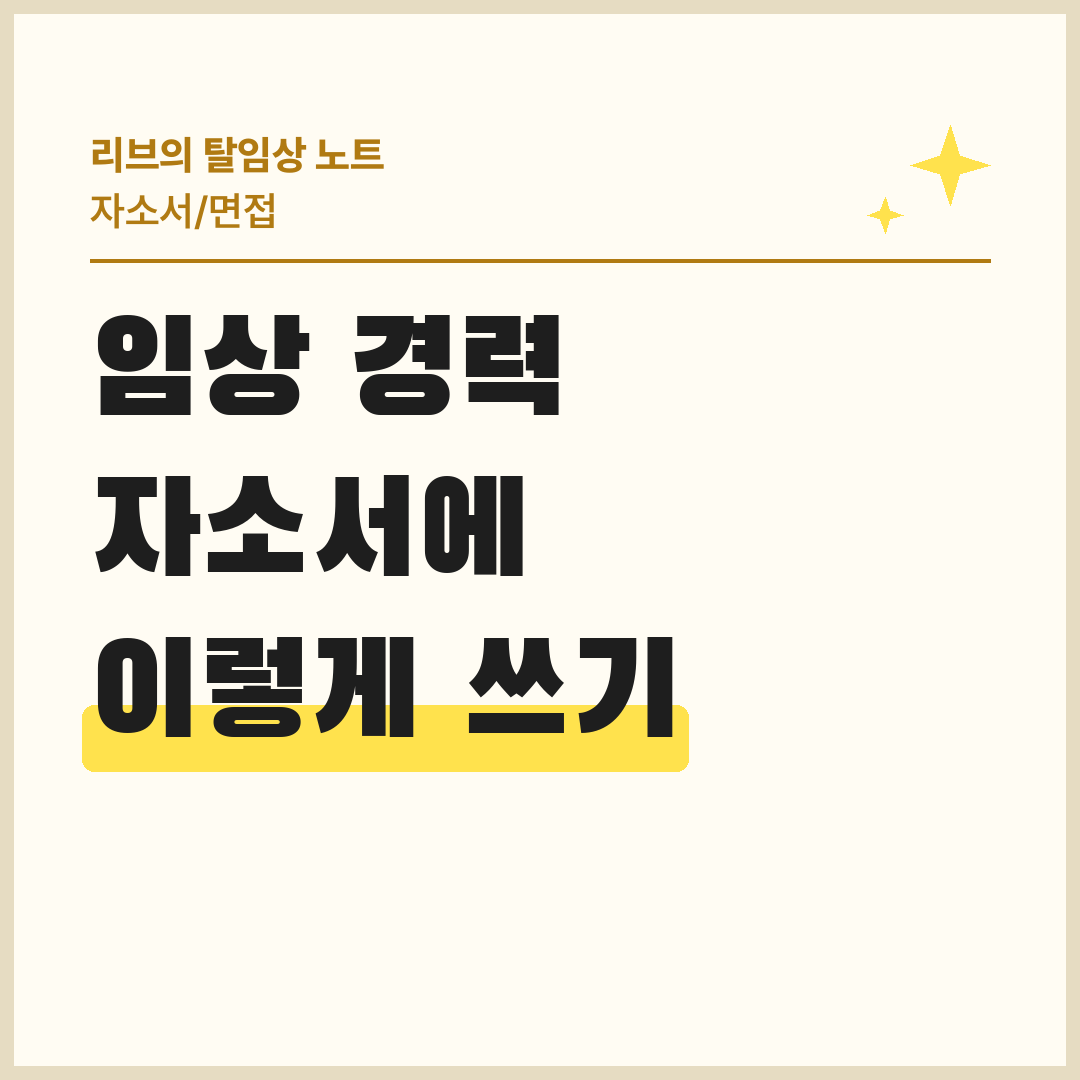
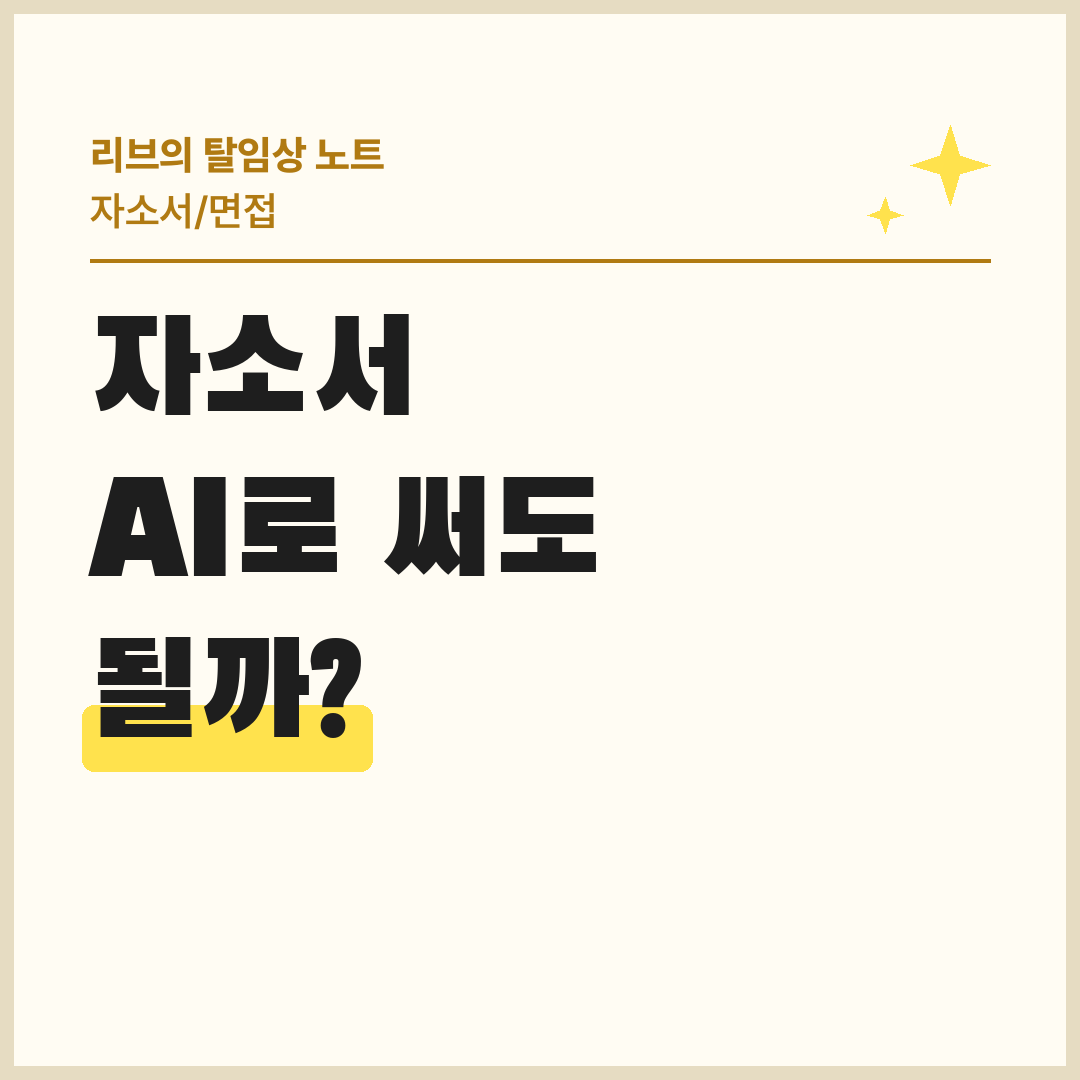
일요일 가이드 2026-11-22를 자소서 AI 활용법으로 교체
Claude-Session: https://claude.ai/code/session_015ozFBuZBwLptH1nqamdwdH

Changed region(s): [[0.0917, 0.5806, 0.6417, 0.7333], [0.0611, 0.4278, 0.55, 0.55], [0.0917, 0.275, 0.5194, 0.3972]]

diff --git a/docs/guides/2026-11-22/index.html b/docs/guides/2026-11-22/index.html
@@ -19,62 +19,64 @@ a{color:var(--accent)}ul.days{padding-left:1.2em}
 <h1>💡 2026-11-22 탈임상 가이드</h1>
 
 <div class="box"><div class="row"><b>블로그 글</b><span class="muted">카테고리: 탈임상 가이드 &gt; 자소서/면접</span></div>
-<div class="row" style="margin-top:8px"><pre id="pt" style="flex:1;margin:0">임상 경력, 탈임상 자소서에 어떻게 쓸까? 간호사 경험을 직무 역량으로 바꾸는 법</pre>
+<div class="row" style="margin-top:8px"><pre id="pt" style="flex:1;margin:0">자소서 AI로 써도 될까? 간호사 탈임상 자소서, AI로 초안 잡고 다듬는 법 (프롬프트 예시)</pre>
 <button onclick="copyText('pt',this)">제목 복사</button></div>
 <details open><summary class="muted" style="margin:10px 0;cursor:pointer">본문 미리보기 (접기)</summary>
 <div id="pb" class="post"><p style="text-align:center"><img src="https://a55796196-sudo.github.io/nurse_jobs/guides/2026-11-22/card-00.jpg" width="540" alt="카드 0"></p>
 <p style="text-align:center">&nbsp;</p>
-<p style="text-align:center">임상 경력은 탈임상 자소서에서 약점이 아니라 근거입니다.<br>다만 간호 행위를 나열하지 말고<br>지원 직무가 원하는 역량으로 바꿔 써야 합니다.<br><br>&quot;병동 경험밖에 없는데 무엇을 써야 할까&quot;<br>탈임상을 준비하면 한 번쯤 해보는 고민입니다.<br><br>바꿔 쓰는 순서를 정리해 보겠습니다.</p>
+<p style="text-align:center">자소서에 AI를 써도 됩니다.<br>다만 통째로 맡기지 말고<br>소재 정리, 초안 뼈대, 문장 다듬기에만 쓰는 것을 추천합니다.<br><br>요즘 자소서를 쓸 때 AI를 한 번도 안 열어 보는 사람은 드뭅니다.<br>문제는 쓰느냐가 아니라 어떻게 쓰느냐입니다.<br><br>탈임상 자소서를 기준으로 순서대로 정리해 보겠습니다.</p>
 <p style="text-align:center">&nbsp;</p>
 <hr>
-<blockquote style="text-align:center"><p style="text-align:center"><b>임상 경력 자소서, 한눈에 보기</b></p></blockquote>
+<blockquote style="text-align:center"><p style="text-align:center"><b>자소서 AI 활용, 한눈에 보기</b></p></blockquote>
 <p style="text-align:center"><img src="https://a55796196-sudo.github.io/nurse_jobs/guides/2026-11-22/card-01.jpg" width="540" alt="카드 1"></p>
-<p style="text-align:center">핵심은 네 단계입니다.</p>
+<p style="text-align:center">AI에게 맡길 일과 내가 할 일을 나누면 이렇습니다.</p>
 <p style="text-align:center">&nbsp;</p>
-<p style="text-align:center">✔ 1단계 : 공고의 직무내용·자격요건에서 원하는 역량 뽑기<br>✔ 2단계 : 임상 경험 중 그 역량이 드러난 장면 고르기<br>✔ 3단계 : 상황 → 행동 → 결과 순서로 쓰기<br>✔ 4단계 : 그 경험이 지원 직무에서 어떻게 쓰일지 연결</p>
+<p style="text-align:center">✔ AI에게 : 공고 분석, 경험 끌어내는 질문, 초안 뼈대, 문장 다듬기<br>✔ 내가 : 경험·사실 제공, 최종 문장 고르기, 내 말투로 고치기<br>✔ 금지 : 없는 경험 만들기, 환자·개인정보 입력, 그대로 복사해 제출</p>
 <p style="text-align:center">&nbsp;</p>
 <hr>
-<blockquote style="text-align:center"><p style="text-align:center"><b>임상 경력 자소서, 왜 어렵게 느껴질까?</b></p></blockquote>
+<blockquote style="text-align:center"><p style="text-align:center"><b>AI가 처음부터 쓴 자소서, 왜 안 될까?</b></p></blockquote>
 <p style="text-align:center"><img src="https://a55796196-sudo.github.io/nurse_jobs/guides/2026-11-22/card-02.jpg" width="540" alt="카드 2"></p>
-<p style="text-align:center">임상 경력 자소서가 어려운 이유는<br>간호사 입장의 언어로 쓰기 때문입니다.<br><br>&quot;투약, 활력징후 측정, 환자 교육을 했습니다&quot;는<br>간호사라면 누구나 쓸 수 있는 문장입니다.<br><br>채용하는 입장에서는<br>그 경험으로 우리 업무를 잘할 수 있는지를 봅니다.<br>같은 경험이라도 지원 직무의 언어로 다시 써야 합니다.</p>
+<p style="text-align:center">AI는 내 경험을 모릅니다.<br>경험 없이 쓰게 하면<br>누구에게나 해당되는 문장이 나옵니다.<br><br>&quot;환자 중심의 사고&quot;, &quot;원활한 의사소통&quot; 같은 표현이 반복되면<br>읽는 사람은 금방 알아챕니다.<br><br>그럴듯한 경험을 지어내기도 합니다.<br>면접에서 그 경험을 물으면 답할 수 없습니다.</p>
 <p style="text-align:center">&nbsp;</p>
 <hr>
-<blockquote style="text-align:center"><p style="text-align:center"><b>공고에서 무엇을 먼저 봐야 할까?</b></p></blockquote>
+<blockquote style="text-align:center"><p style="text-align:center"><b>1단계 : 공고 분석은 AI에게</b></p></blockquote>
 <p style="text-align:center"><img src="https://a55796196-sudo.github.io/nurse_jobs/guides/2026-11-22/card-03.jpg" width="540" alt="카드 3"></p>
-<p style="text-align:center">자소서를 쓰기 전에<br>공고의 직무내용과 자격·우대 요건을 먼저 봅니다.<br><br>여기에 나온 단어가 곧 지원 직무가 원하는 역량입니다.<br><br>공공기관은 공고와 함께 직무기술서를 공개하는 경우가 많아<br>필요한 지식·기술·태도를 확인하기 좋습니다.</p>
+<p style="text-align:center">공고의 직무내용과 자격·우대 요건을 붙여 넣고<br>원하는 역량을 정리해 달라고 합니다.<br><br>여기서 나온 역량이<br>자소서에서 보여줘야 할 목록이 됩니다.</p>
 <p style="text-align:center">&nbsp;</p>
-<p style="text-align:center">✔ 보건관리자 : 건강상담, 건강검진 사후관리, 보건교육<br>✔ 보험심사 : 진료 기록 검토, 급여기준 이해, 의료진과의 조율<br>✔ CRC : 대상자 관리, 기록·문서 정확성, 일정 관리</p>
-<p style="text-align:center">&nbsp;</p>
-<p style="text-align:center">(💡 공고에 반복해서 나오는 단어에 표시해 두면 자소서 소재를 고르기 쉽습니다)</p>
+<p style="text-align:center">✔ 예시 : &quot;아래 채용공고에서 이 직무가 원하는 역량 5가지를 뽑고, 각각 공고 속 근거 문장을 붙여줘. (공고 붙여넣기)&quot;</p>
 <p style="text-align:center">&nbsp;</p>
 <hr>
-<blockquote style="text-align:center"><p style="text-align:center"><b>임상 경험을 어떻게 바꿔 쓸까?</b></p></blockquote>
+<blockquote style="text-align:center"><p style="text-align:center"><b>2단계 : 경험은 AI에게 질문을 받아 끌어내기</b></p></blockquote>
 <p style="text-align:center"><img src="https://a55796196-sudo.github.io/nurse_jobs/guides/2026-11-22/card-04.jpg" width="540" alt="카드 4"></p>
-<p style="text-align:center">같은 병동 경험도<br>지원 직무에 따라 꺼내는 장면이 달라집니다.<br><br>아래처럼 경험 하나를<br>직무가 원하는 역량으로 연결해 봅니다.</p>
+<p style="text-align:center">AI에게 쓰게 하지 말고<br>나에게 질문하게 합니다.<br><br>질문에 답하다 보면<br>잊고 있던 장면이 떠오릅니다.<br>이 답이 자소서의 재료입니다.</p>
 <p style="text-align:center">&nbsp;</p>
-<p style="text-align:center">✔ 환자·보호자 교육 → 보건교육·건강상담 역량 (보건관리자·보건소)<br>✔ 간호 기록·인수인계 → 기록의 정확성 (CRC·보험심사)<br>✔ 처방 확인·투약 오류 예방 → 기준에 맞는지 검토하는 습관 (보험심사·QI)<br>✔ 다학제 협업·의사소통 → 의료진·대상자와의 조율 (CRC·보험심사)</p>
+<p style="text-align:center">✔ 예시 : &quot;나는 병동 간호사 경력으로 (지원 직무)에 지원한다. 1단계 역량이 드러난 경험을 찾을 수 있게 질문을 하나씩 해줘. 답은 내가 할게.&quot;</p>
+<p style="text-align:center">&nbsp;</p>
+<p style="text-align:center">(💡 답할 때 환자 이름·병원 내부 정보처럼 사람이나 기관을 알아볼 수 있는 내용은 넣지 마세요)</p>
 <p style="text-align:center">&nbsp;</p>
 <hr>
-<blockquote style="text-align:center"><p style="text-align:center"><b>문단은 어떤 순서로 쓸까?</b></p></blockquote>
+<blockquote style="text-align:center"><p style="text-align:center"><b>3단계 : 초안 뼈대는 내 메모로 잡기</b></p></blockquote>
 <p style="text-align:center"><img src="https://a55796196-sudo.github.io/nurse_jobs/guides/2026-11-22/card-05.jpg" width="540" alt="카드 5"></p>
-<p style="text-align:center">경험 하나는<br>상황 → 행동 → 결과 순서로 쓰면 읽기 쉽습니다.<br><br>어떤 상황이었는지, 내가 무엇을 했는지,<br>그래서 무엇이 달라졌는지를 차례로 적습니다.<br><br>마지막 한 문장은<br>그 경험이 지원 직무에서 어떻게 쓰일지로 마무리합니다.<br>이 문장이 있어야 &quot;임상 이야기&quot;가 &quot;직무 이야기&quot;가 됩니다.</p>
+<p style="text-align:center">2단계에서 정리한 내 경험 메모를 주고<br>문항에 맞춰 뼈대를 잡아 달라고 합니다.<br><br>상황 → 행동 → 결과 → 지원 직무와의 연결,<br>이 순서로 나눠 달라고 하면 정리가 쉽습니다.<br><br>없는 내용은 채우지 말라고 꼭 적어 둡니다.</p>
 <p style="text-align:center">&nbsp;</p>
-<p style="text-align:center">(💡 결과는 숫자가 있으면 좋지만, 없는 숫자를 만들어 쓰지는 마세요. 바뀐 행동이나 절차로도 충분합니다)</p>
+<p style="text-align:center">✔ 예시 : &quot;아래 내 경험 메모로 &#x27;(자소서 문항)&#x27; 답변의 뼈대를 상황-행동-결과-직무 연결 순서로 짜줘. 메모에 없는 경험이나 수치는 절대 추가하지 마. (메모 붙여넣기)&quot;</p>
 <p style="text-align:center">&nbsp;</p>
 <hr>
-<blockquote style="text-align:center"><p style="text-align:center"><b>임상 경력 자소서에서 피할 것은?</b></p></blockquote>
+<blockquote style="text-align:center"><p style="text-align:center"><b>4단계 : 다듬기와 마무리는 내 손으로</b></p></blockquote>
 <p style="text-align:center"><img src="https://a55796196-sudo.github.io/nurse_jobs/guides/2026-11-22/card-06.jpg" width="540" alt="카드 6"></p>
-<p style="text-align:center">지원 동기를 쓸 때<br>임상이 힘들어서 떠난다는 인상은 주지 않는 게 좋습니다.<br><br>떠나는 이유보다<br>이 직무를 선택한 이유와 앞으로의 계획에 무게를 둡니다.</p>
+<p style="text-align:center">뼈대를 바탕으로 문장은 직접 씁니다.<br>AI에게는 고칠 점을 물어보는 정도로만 씁니다.<br><br>글자 수 맞추기, 어색한 문장 찾기,<br>중복 표현 줄이기에 특히 유용합니다.<br><br>마지막에는 소리 내어 읽어 보고<br>내가 면접에서 말할 수 있는 문장인지 확인합니다.</p>
 <p style="text-align:center">&nbsp;</p>
-<p style="text-align:center">✔ 간호 업무 나열 : 지원 직무와의 연결 없이 업무만 적기<br>✔ 임상 비판 : 교대·업무 강도 불만이 지원 동기가 되는 것<br>✔ 모든 공고에 같은 자소서 : 직무마다 강조할 경험이 다름<br>✔ 환자 정보 : 실제 환자를 알아볼 수 있는 내용</p>
+<p style="text-align:center">✔ 예시 : &quot;이 문단에서 어색한 문장과 중복 표현을 찾아서 이유와 함께 알려줘. 새로 써 주지는 말고.&quot;<br>✔ 예시 : &quot;이 답변을 (글자 수) 이내로 줄이려면 어떤 문장을 빼면 좋을지 알려줘.&quot;</p>
 <p style="text-align:center">&nbsp;</p>
 <hr>
-<blockquote style="text-align:center"><p style="text-align:center"><b>정리하면</b></p></blockquote>
+<blockquote style="text-align:center"><p style="text-align:center"><b>자소서에 AI 쓸 때 주의할 점은?</b></p></blockquote>
 <p style="text-align:center"><img src="https://a55796196-sudo.github.io/nurse_jobs/guides/2026-11-22/card-07.jpg" width="540" alt="카드 7"></p>
-<p style="text-align:center">임상 경력은 탈임상 자소서의 가장 확실한 근거입니다.<br><br>공고에서 원하는 역량을 먼저 찾고,<br>그 역량이 드러난 장면을 골라<br>지원 직무의 언어로 다시 쓰는 것을 추천합니다.</p>
+<p style="text-align:center">AI 사용에 대한 기준은 기관마다 다를 수 있습니다.<br>공고나 지원서에 관련 안내가 있으면 그대로 따릅니다.</p>
+<p style="text-align:center">&nbsp;</p>
+<p style="text-align:center">✔ 개인정보 : 환자·동료를 알아볼 수 있는 내용, 주민번호·연락처는 입력 금지<br>✔ 사실 확인 : AI가 쓴 기관 정보·제도 설명은 공고·기관 홈페이지로 확인<br>✔ 같은 문장 반복 : 여러 기관에 같은 AI 문장을 쓰지 않기<br>✔ 기관 안내 : 공고에 AI 관련 안내가 있으면 그대로 따르기</p>
 <p style="text-align:center">&nbsp;</p>
 <hr>
-<p style="text-align:center">자소서는 공고를 꼼꼼히 읽는 것에서 시작합니다.<br><br>지원하고 싶은 공고가 생겼다면<br>직무내용부터 한 줄씩 짚어 보시길 권합니다.</p>
+<p style="text-align:center">AI는 자소서를 대신 써 주는 도구가 아니라<br>내 경험을 꺼내고 정리하는 도구로 쓸 때 가장 쓸모가 있습니다.<br><br>마지막 문장은 늘 내 말로 마무리하시길 권합니다.</p>
 <p style="text-align:center">&nbsp;</p>
 <p style="text-align:center"><b>공식 정보 확인</b><br><a href="https://job.alio.go.kr">잡알리오 (공공기관 채용정보)</a> · 공공기관 채용 공고·직무기술서 확인</p>
 <p style="text-align:center">※ 시험 일정·응시 자격·비용은 바뀔 수 있으니 준비 전 공식 사이트에서 확인하시기 바랍니다.</p>
@@ -83,10 +85,10 @@ a{color:var(--accent)}ul.days{padding-left:1.2em}
 <p style="text-align:center">&nbsp;</p>
 <p style="text-align:center">읽어주셔서 감사합니다.</p>
 <p style="text-align:center">&nbsp;</p>
-<p style="text-align:center">#탈임상자소서 #간호사자소서 #간호사이직 #자기소개서 #탈임상 #간호사취업 #탈임상간호사</p></div></details>
+<p style="text-align:center">#자소서AI #간호사자소서 #탈임상자소서 #챗GPT자소서 #간호사이직 #탈임상 #탈임상간호사 #간호사취업</p></div></details>
 <div class="row"><span class="muted">제목 → 본문 순서로 붙여넣기. 카드 이미지가 같이 안 붙으면 아래 카드뉴스를 저장해 그 자리에 넣고, 글꼴은 나눔마루부리로 바꾸세요</span>
 <button onclick="copyHtml('pb',this)">본문 복사</button></div>
-<div class="row" style="margin-top:10px"><pre id="tg" style="flex:1;margin:0">#탈임상자소서 #간호사자소서 #간호사이직 #자기소개서 #탈임상 #간호사취업 #탈임상간호사</pre>
+<div class="row" style="margin-top:10px"><pre id="tg" style="flex:1;margin:0">#자소서AI #간호사자소서 #탈임상자소서 #챗GPT자소서 #간호사이직 #탈임상 #탈임상간호사 #간호사취업</pre>
 <button onclick="copyText('tg',this)">태그 복사</button></div>
 <div class="row" style="margin-top:10px;align-items:flex-start"><a href="thumb.png" download><img src="thumb.png" alt="썸네일" style="width:160px;border-radius:8px;border:1px solid var(--line)"></a>
 <span class="muted">썸네일: 이미지를 눌러 저장 후 글 맨 위에 넣으세요</span></div></div>
@@ -95,22 +97,22 @@ a{color:var(--accent)}ul.days{padding-left:1.2em}
 <div class="cards"><a href="card-00.jpg" download><img src="card-00.jpg" alt="카드 0"></a><a href="card-01.jpg" download><img src="card-01.jpg" alt="카드 1"></a><a href="card-02.jpg" download><img src="card-02.jpg" alt="카드 2"></a><a href="card-03.jpg" download><img src="card-03.jpg" alt="카드 3"></a><a href="card-04.jpg" download><img src="card-04.jpg" alt="카드 4"></a><a href="card-05.jpg" download><img src="card-05.jpg" alt="카드 5"></a><a href="card-06.jpg" download><img src="card-06.jpg" alt="카드 6"></a><a href="card-07.jpg" download><img src="card-07.jpg" alt="카드 7"></a><a href="card-08.jpg" download><img src="card-08.jpg" alt="카드 8"></a></div></div>
 
 <div class="box"><div class="row"><b>📷 인스타 캡션</b><button onclick="copyText('cap',this)">캡션 복사</button></div>
-<pre id="cap">💡 &quot;병동 경험밖에 없는데 뭘 쓰죠?&quot; 이렇게 바꿔 쓰면 됩니다
+<pre id="cap">💡 자소서 AI로 써도 될까요? 맡기는 법이 따로 있습니다
 
 1. 한눈에 보기
-2. 왜 어렵게 느껴질까
-3. 공고부터 읽기
-4. 이렇게 바꿔 쓰기
-5. 상황 → 행동 → 결과
-6. 피하면 좋은 것
-7. 정리하면
+2. 통째로 맡기면 안 되는 이유
+3. 1단계 공고 분석
+4. 2단계 경험 끌어내기
+5. 3단계 초안 뼈대
+6. 4단계 다듬기
+7. 주의할 점
 
 💬 더 궁금한 점이나 다뤄줬으면 하는 주제가 있다면 댓글로 알려주세요
 
 📌 자세한 내용은 프로필 링크(블로그)에서 확인하세요!
 💾 저장해두고 필요할 때 꺼내보세요
 
-#탈임상자소서 #간호사자소서 #간호사이직 #자기소개서 #탈임상 #간호사취업 #탈임상간호사 #간호사 #간호사채용</pre></div>
+#자소서AI #간호사자소서 #탈임상자소서 #챗GPT자소서 #간호사이직 #탈임상 #탈임상간호사 #간호사취업 #간호사 #간호사채용</pre></div>
 </main><script>
 async function copyHtml(id, btn){
   const el=document.getElementById(id);

diff --git a/docs/index.html b/docs/index.html
@@ -16,7 +16,7 @@ h2{font-size:1.2rem;margin:28px 0 4px}
 a{color:var(--accent)}ul.days{padding-left:1.2em}
 </style></head><body><main><h1>탈임상 공고 작업실</h1>
 <p class="muted">매일 아침 자동으로 업데이트됩니다. 날짜를 눌러 블로그 글과 카드뉴스를 확인하세요.</p>
-<h2>💡 탈임상 가이드 (주 1회)</h2><div class="box"><ul class="days"><li><a href="guides/2026-12-26/">2026-12-26</a> <span class="muted">· 병원 밖 업무 스킬</span><br>보험심사 간호사는 어떤 일을 할까? 심사·청구·삭감 대응, 근무처, 지원 자격 정리</li><li><a href="guides/2026-12-12/">2026-12-12</a> <span class="muted">· 병원 밖 업무 스킬</span><br>CRC 다음은 어디로? 바로 CRA vs CRC 경력, 이직 방향 정리 (CRA·CTA·RA·의료데이터·연구직)</li><li><a href="guides/2026-12-05/">2026-12-05</a> <span class="muted">· 병원 밖 업무 스킬</span><br>CRC 입사 후, 경력이 되는 경험과 시간 활용법</li><li><a href="guides/2026-11-28/">2026-11-28</a> <span class="muted">· 자소서/면접</span><br>CRC 취업 준비, 자격증보다 먼저 할 것 (임상시험 종사자 교육·지원 전략·면접 포인트)</li><li><a href="guides/2026-11-22/">2026-11-22</a> <span class="muted">· 자소서/면접</span><br>임상 경력, 탈임상 자소서에 어떻게 쓸까? 간호사 경험을 직무 역량으로 바꾸는 법</li><li><a href="guides/2026-11-21/">2026-11-21</a> <span class="muted">· 병원 밖 업무 스킬</span><br>CRC(임상연구코디네이터)는 어떤 일을 할까? 업무·소속·장단점·잘 맞는 사람 총정리</li></ul></div>
+<h2>💡 탈임상 가이드 (주 1회)</h2><div class="box"><ul class="days"><li><a href="guides/2026-12-26/">2026-12-26</a> <span class="muted">· 병원 밖 업무 스킬</span><br>보험심사 간호사는 어떤 일을 할까? 심사·청구·삭감 대응, 근무처, 지원 자격 정리</li><li><a href="guides/2026-12-12/">2026-12-12</a> <span class="muted">· 병원 밖 업무 스킬</span><br>CRC 다음은 어디로? 바로 CRA vs CRC 경력, 이직 방향 정리 (CRA·CTA·RA·의료데이터·연구직)</li><li><a href="guides/2026-12-05/">2026-12-05</a> <span class="muted">· 병원 밖 업무 스킬</span><br>CRC 입사 후, 경력이 되는 경험과 시간 활용법</li><li><a href="guides/2026-11-28/">2026-11-28</a> <span class="muted">· 자소서/면접</span><br>CRC 취업 준비, 자격증보다 먼저 할 것 (임상시험 종사자 교육·지원 전략·면접 포인트)</li><li><a href="guides/2026-11-22/">2026-11-22</a> <span class="muted">· 자소서/면접</span><br>자소서 AI로 써도 될까? 간호사 탈임상 자소서, AI로 초안 잡고 다듬는 법 (프롬프트 예시)</li><li><a href="guides/2026-11-21/">2026-11-21</a> <span class="muted">· 병원 밖 업무 스킬</span><br>CRC(임상연구코디네이터)는 어떤 일을 할까? 업무·소속·장단점·잘 맞는 사람 총정리</li></ul></div>
 <h2>📅 날짜별 공고</h2>
 <div class="box"><ul class="days"><li><a href="2026-11-22/">2026-11-22</a> <span class="muted">· 9건</span></li><li><a href="2026-11-21/">2026-11-21</a> <span class="muted">· 11건</span></li><li><a href="2026-11-20/">2026-11-20</a> <span class="muted">· 7건</span></li><li><a href="2026-11-19/">2026-11-19</a> <span class="muted">· 13건</span></li><li><a href="2026-11-18/">2026-11-18</a> <span class="muted">· 4건</span></li><li><a href="2026-11-17/">2026-11-17</a> <span class="muted">· 5건</span></li><li><a href="2026-11-14/">2026-11-14</a> <span class="muted">· 2건</span></li><li><a href="2026-11-12/">2026-11-12</a> <span class="muted">· 1건</span></li><li><a href="2026-11-11/">2026-11-11</a> <span class="muted">· 4건</span></li><li><a href="2026-11-10/">2026-11-10</a> <span class="muted">· 1건</span></li><li><a href="2026-11-09/">2026-11-09</a> <span class="muted">· 1건</span></li><li><a href="2026-11-07/">2026-11-07</a> <span class="muted">· 1건</span></li><li><a href="2026-11-06/">2026-11-06</a> <span class="muted">· 4건</span></li><li><a href="2026-11-05/">2026-11-05</a> <span class="muted">· 19건</span></li></ul></div>
 </main></body></html>

diff --git a/data/guides/topics.md b/data/guides/topics.md
@@ -31,7 +31,6 @@
 - [ ] 엑셀로 건강검진·유소견자 관리표 만들기 (보건관리자 업무 예시)
 - [ ] 엑셀 피벗테이블로 월별 통계 내기 (보고서용)
 - [ ] 공문·보고서 쓰는 기본 형식 (공공기관·기업 문서)
-- [ ] AI로 자소서·면접 준비할 때 쓰는 법과 주의점
 - [ ] 회의록·업무 메일 잘 쓰는 법
 - [ ] 엑셀 그래프로 한 장짜리 보고서 만들기
 
@@ -48,9 +47,11 @@
 - [ ] QI(의료질관리) 간호사는 어떤 일을 할까? (병원 밖 업무 스킬)
 
 ## 일요일 자소서·면접
-- [x] 임상 경력을 탈임상 자소서에 녹이는 법 (2026-11-22)
+- [x] 자소서 AI로 써도 될까? 초안 잡고 다듬는 법 (2026-11-22)
+- [ ] 임상 경력을 탈임상 자소서에 녹이는 법 (초안: drafts/임상경력-자소서.json — 다듬어서 쓰기)
 - [ ] 공공기관 NCS 직업기초능력, 간호사는 어떻게 준비할까
 - [ ] 탈임상 면접 단골 질문과 답변 방향
+- [ ] AI로 면접 준비하는 법: 예상 질문 뽑기·답변 점검 (개인정보 주의)
 - [ ] 보건교사 기간제·시간강사 지원 서류 준비
 - [ ] 계약직·기간제로 시작해도 괜찮을까: 경력 쌓는 전략
 
